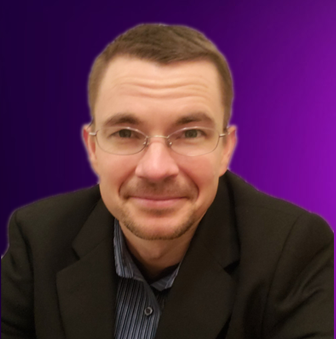
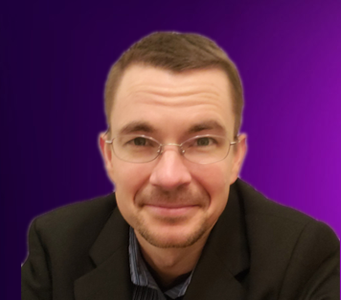
changed pic a bit

diff --git a/public/css/layout.css b/public/css/layout.css
@@ -356,7 +356,7 @@ ul#nav li.current a {
 }
 #about .profile-pic {
     position: relative;
-    width: 190px;
+    width: 220px;
     height: 190px;
     border-radius: 100%;
 }
